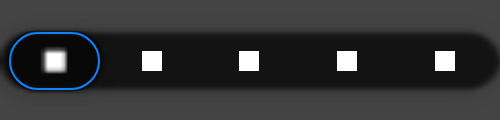
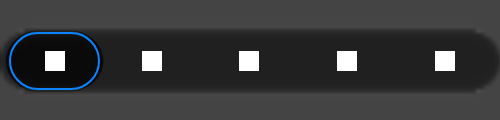
Tab bar focus ring: bar-local bounds, cleared on tab removal, test scoped to the selected tab, Calm capture (#143 review)

Changed region(s): [[0.06, 0.375, 0.15, 0.625]]

diff --git a/liquidglass/src/commonMain/kotlin/com/wexpa/liquidglass/GlassTabBar.kt b/liquidglass/src/commonMain/kotlin/com/wexpa/liquidglass/GlassTabBar.kt
@@ -184,16 +184,20 @@ internal fun GlassTabBar(
 
     // The keyboard focus ring (#117) is drawn over everything the bar draws, the selector included:
     // drawn on the interactive row it sat under the pill or lens of the selected tab.
-    val focusRing = remember { mutableStateOf<GlassFocusRingTarget?>(null) }
-    var barInRoot by remember { mutableStateOf(androidx.compose.ui.geometry.Offset.Zero) }
+    val focusRing = remember { GlassFocusRingState() }
     androidx.compose.runtime.CompositionLocalProvider(LocalGlassFocusRing provides focusRing) {
     // Nothing here clips: the lens stands proud of the bar while it is held.
     BoxWithConstraints(
         modifier = modifier.height(style.height)
-            .onGloballyPositioned { barInRoot = it.positionInRoot() }
+            .onGloballyPositioned { focusRing.bar = it }
             .drawWithContent {
                 drawContent()
-                focusRing.value?.let { drawGlassFocusRing(it.bounds.translate(-barInRoot)) }
+                // In the bar's own coordinates, so a scaled or rotated ancestor cannot misplace it.
+                val target = focusRing.target.value
+                val bar = focusRing.bar
+                if (target != null && bar != null && bar.isAttached && target.cell.isAttached) {
+                    drawGlassFocusRing(bar.localBoundingBoxOf(target.cell, clipBounds = false))
+                }
             },
     ) {
         val density = LocalDensity.current
@@ -1303,16 +1307,20 @@ private fun ItemCell(
                     // Only for keyboard navigation: a pointer that focuses a tab shows the lens.
                     val keyboard = LocalInputModeManager.current.inputMode == InputMode.Keyboard
                     val ring = LocalGlassFocusRing.current
-                    var bounds by remember { mutableStateOf(androidx.compose.ui.geometry.Rect.Zero) }
+                    var cell by remember { mutableStateOf<androidx.compose.ui.layout.LayoutCoordinates?>(null) }
                     val showRing = focused && keyboard
                     androidx.compose.runtime.SideEffect {
-                        if (ring != null) {
-                            if (showRing) ring.value = GlassFocusRingTarget(index, bounds)
-                            else if (ring.value?.index == index) ring.value = null
-                        }
+                        val target = ring?.target ?: return@SideEffect
+                        val at = cell
+                        if (showRing && at != null) target.value = GlassFocusRingTarget(index, at)
+                        else if (target.value?.index == index) target.value = null
+                    }
+                    // A focused tab removed from the bar (a smaller itemCount) takes its ring with it.
+                    androidx.compose.runtime.DisposableEffect(ring) {
+                        onDispose { if (ring?.target?.value?.index == index) ring.target.value = null }
                     }
                     Modifier
-                        .onGloballyPositioned { bounds = it.boundsInRoot() }
+                        .onGloballyPositioned { cell = it }
                         .selectable(
                             selected = index == semanticSelected,
                             interactionSource = interactions,
@@ -2371,11 +2379,17 @@ internal fun glassSelectorFold(style: GlassTabBarStyle, formation: Float, transi
 private fun AwaitPointerEventScope.liftedWithoutDrag(id: PointerId): Boolean =
     currentEvent.changes.firstOrNull { it.id == id }?.pressed == false
 
-/** The keyboard-focused tab and its bounds in root coordinates (#117). */
-internal data class GlassFocusRingTarget(val index: Int, val bounds: androidx.compose.ui.geometry.Rect)
+/** The keyboard-focused tab and its layout (#117). */
+internal class GlassFocusRingTarget(val index: Int, val cell: androidx.compose.ui.layout.LayoutCoordinates)
+
+/** The bar's layout and its keyboard-focused tab, if any (#117). */
+internal class GlassFocusRingState {
+    var bar: androidx.compose.ui.layout.LayoutCoordinates? = null
+    val target = mutableStateOf<GlassFocusRingTarget?>(null)
+}
 
 /** Set by [GlassTabBar] so its interactive tabs can report keyboard focus to the bar, which draws the ring. */
-internal val LocalGlassFocusRing = androidx.compose.runtime.staticCompositionLocalOf<androidx.compose.runtime.MutableState<GlassFocusRingTarget?>?> { null }
+internal val LocalGlassFocusRing = androidx.compose.runtime.staticCompositionLocalOf<GlassFocusRingState?> { null }
 
 /** The focus ring for a keyboard-focused tab (#117), around [cell]: a 2 dp capsule, inset 3 dp, in the system
  * accent blue with a dark hairline outside it, so it reads over a light or a dark bar. */

diff --git a/liquidglass/src/jvmTest/kotlin/com/wexpa/liquidglass/GlassTabBarFocusTest.kt b/liquidglass/src/jvmTest/kotlin/com/wexpa/liquidglass/GlassTabBarFocusTest.kt
@@ -27,10 +27,13 @@ import kotlin.time.Duration.Companion.minutes
 /** #117: a keyboard user can see which tab has focus; a pointer click does not leave a ring. */
 @OptIn(ExperimentalTestApi::class)
 class GlassTabBarFocusTest {
-    private fun ComposeUiTest.ringPixels(): Int {
+    /** Ring-coloured pixels in the scene, or only within [within] (scene px) when given. */
+    private fun ComposeUiTest.ringPixels(within: androidx.compose.ui.geometry.Rect? = null): Int {
         val map = onNodeWithTag("scene").captureToImage().toPixelMap()
         var n = 0
-        for (y in 0 until map.height) for (x in 0 until map.width) {
+        val xs = within?.let { it.left.toInt().coerceAtLeast(0) until it.right.toInt().coerceAtMost(map.width) } ?: 0 until map.width
+        val ys = within?.let { it.top.toInt().coerceAtLeast(0) until it.bottom.toInt().coerceAtMost(map.height) } ?: 0 until map.height
+        for (y in ys) for (x in xs) {
             val c = map[x, y]
             if (abs(c.red - GlassFocusRingColor.red) < .03f && abs(c.green - GlassFocusRingColor.green) < .03f &&
                 abs(c.blue - GlassFocusRingColor.blue) < .03f) n++
@@ -43,7 +46,8 @@ class GlassTabBarFocusTest {
             val state = rememberLiquidGlassState(Color.Black, renderScale = .25f)
             Box(Modifier.size(500.dp, 120.dp).testTag("scene")) {
                 Box(Modifier.fillMaxSize().background(Color.DarkGray).liquidGlassSource(state))
-                GlassTabBar(state, 5, 0, {}, Modifier.offset(0.dp, 29.dp).width(500.dp)) { _, _ ->
+                // The public overload's default style.
+                GlassTabBar(state, 5, 0, {}, Modifier.offset(0.dp, 29.dp).width(500.dp), style = GlassTabBarStyle.Calm()) { _, _ ->
                     Box(Modifier.size(20.dp).background(Color.White))
                 }
             }
@@ -65,7 +69,11 @@ class GlassTabBarFocusTest {
         bar(); waitForIdle()
         onAllNodes(tab)[0].requestFocus()
         waitForIdle()
-        assertTrue(ringPixels() > 200, "the selected tab's ring is hidden: ${ringPixels()}")
+        // Counted within the selected tab's own bounds, so a ring round another tab cannot pass.
+        val cell = onAllNodes(tab)[0].fetchSemanticsNode().boundsInRoot
+        val inside = ringPixels(cell)
+        assertTrue(inside > 200, "the selected tab's ring is hidden: $inside of ${ringPixels()}")
+        assertEquals(ringPixels(), inside, "ring pixels outside the selected tab")
         // Evidence for review/atlas/tab-focus-ring-2026-11-01 (desktop JVM software render, 500 x 120 dp at density 1).
         val image = onNodeWithTag("scene").captureToImage().toAwtImage()
         java.io.File("build/reports/atlas").apply { mkdirs() }.resolve("tab-focus-ring.png")

diff --git a/review/atlas/tab-focus-ring-2026-11-01/README.md b/review/atlas/tab-focus-ring-2026-11-01/README.md
@@ -1,8 +1,8 @@
 # Tab bar keyboard focus ring (#117)
 
-![The selected tab, focused from the keyboard, with its ring drawn over the selector](tab-focus-ring.png)
+![Desktop JVM software-renderer capture (GlassTabBarFocusTest): the selected tab, focused from the keyboard, with its ring drawn over the Calm selector](tab-focus-ring.png)
 
-- **Source:** branch `fix/117-tab-focus-ring`, `GlassTabBar` with its default style.
+- **Source:** branch `fix/117-tab-focus-ring`, `GlassTabBar` with `GlassTabBarStyle.Calm()`, the public overload's default.
 - **Capture:** `GlassTabBarFocusTest.theSelectedTabsRingIsDrawnOverTheSelector`, desktop JVM software renderer. The scene
   is 500 x 120 dp at density 1, with a dark-grey source behind the bar and white squares as tab content. Focus is
   moved to the selected tab (index 0) with `requestFocus()`.
